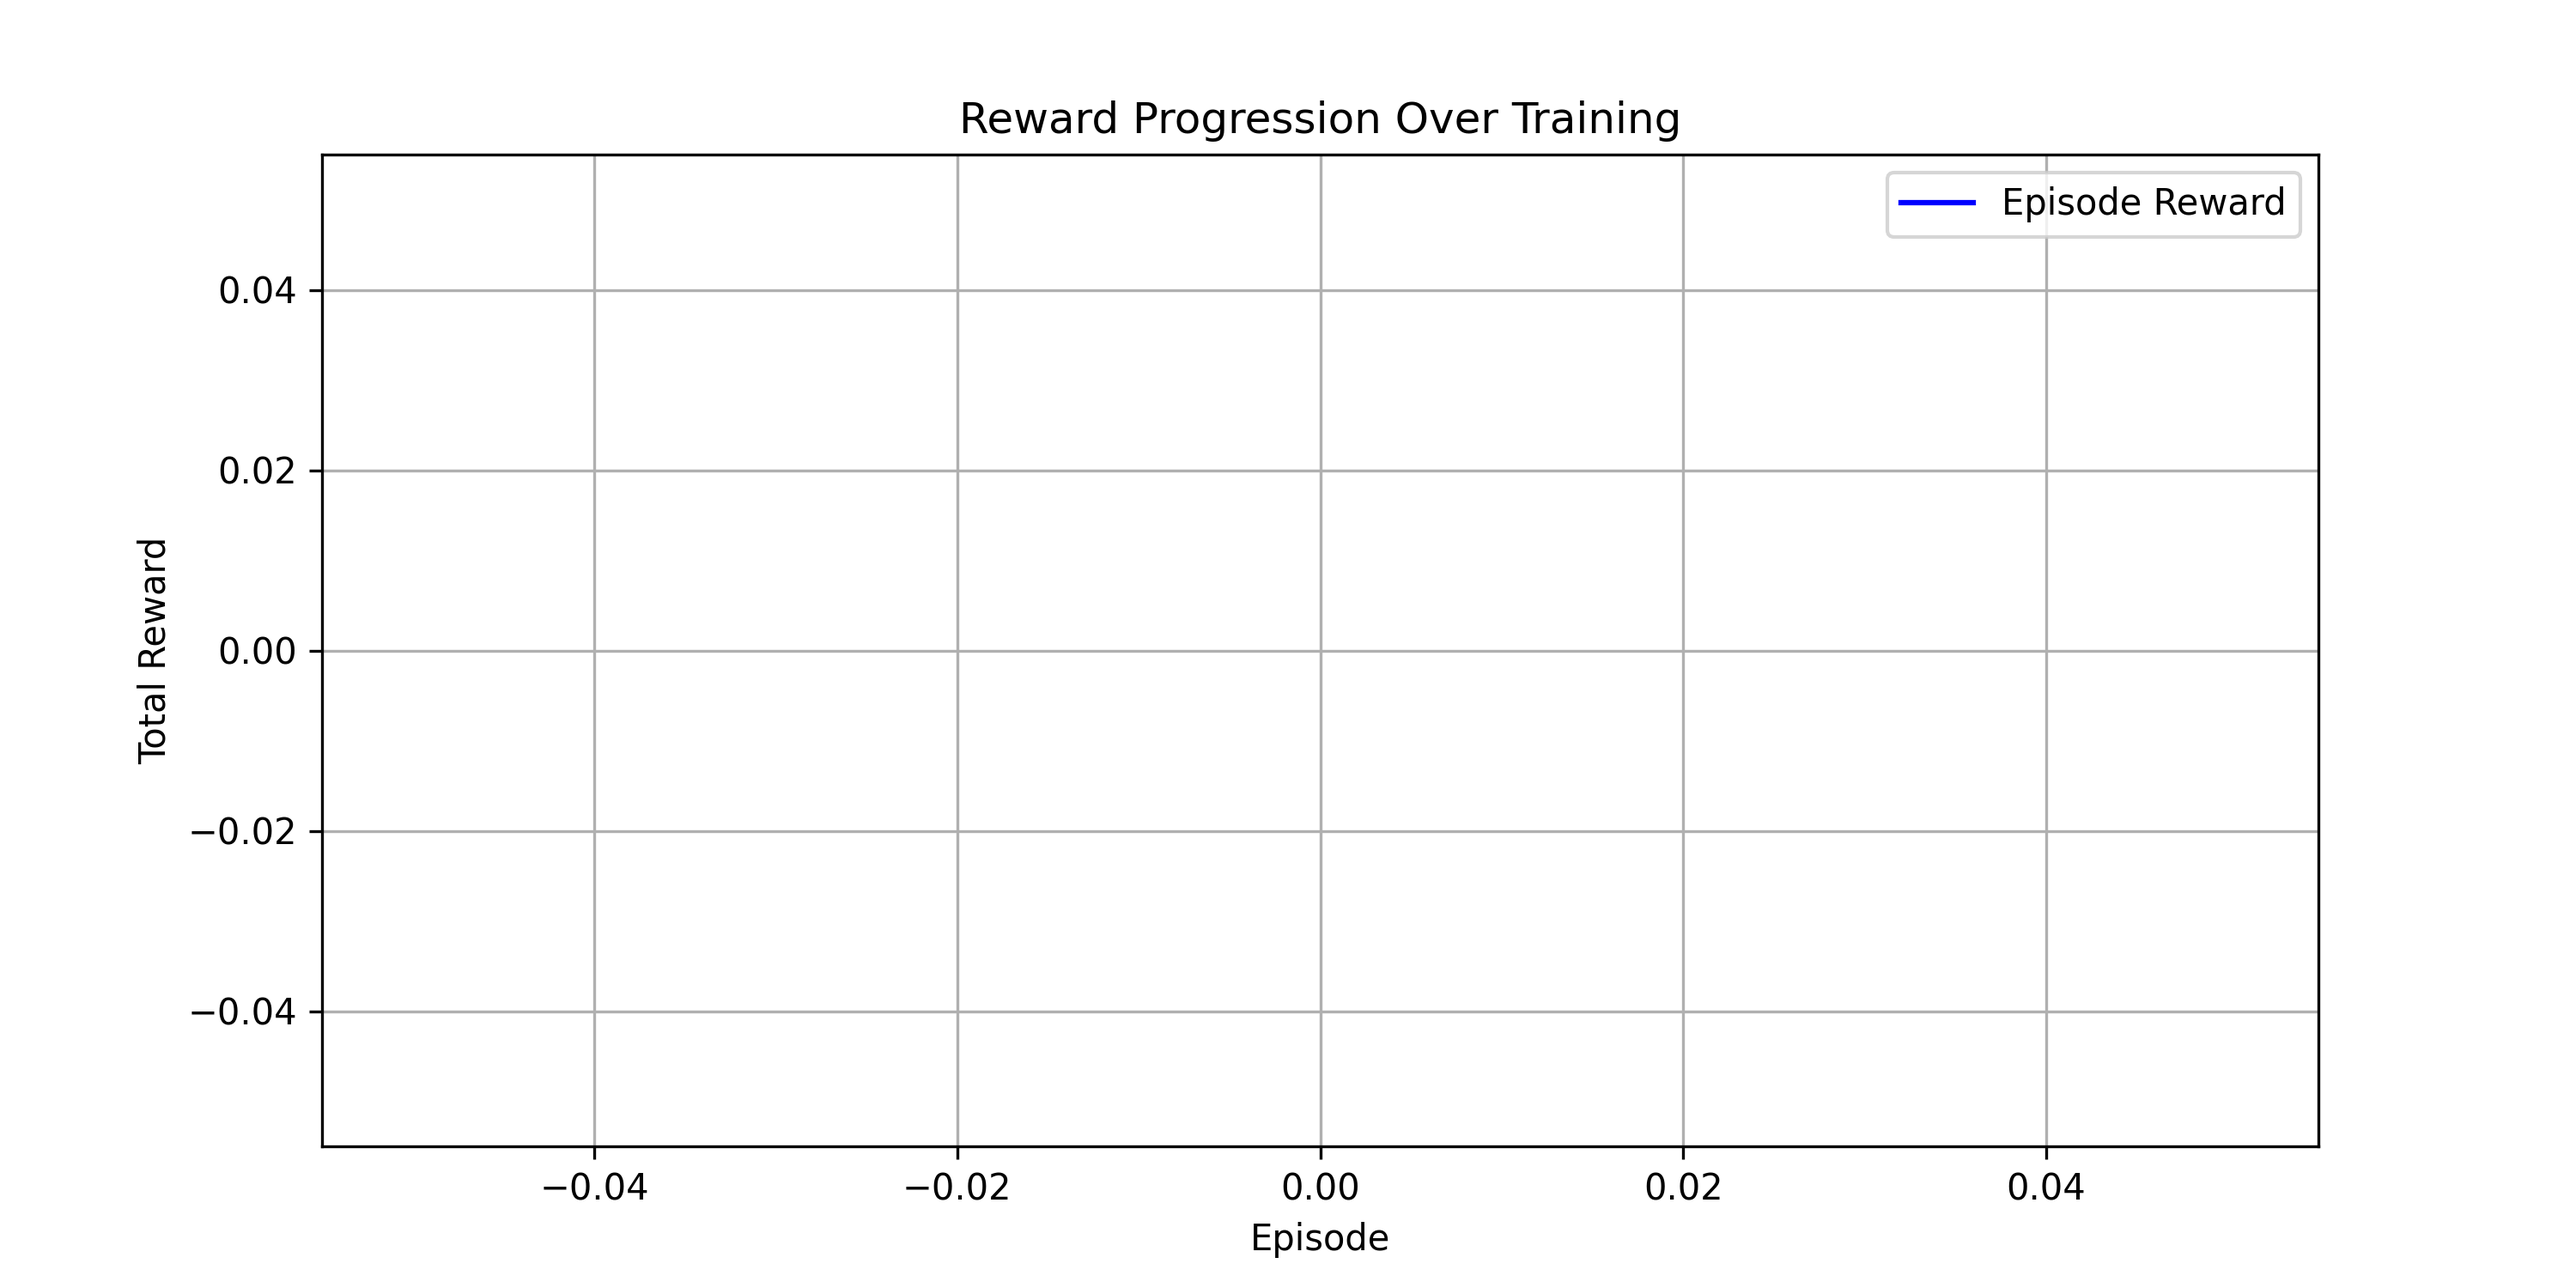
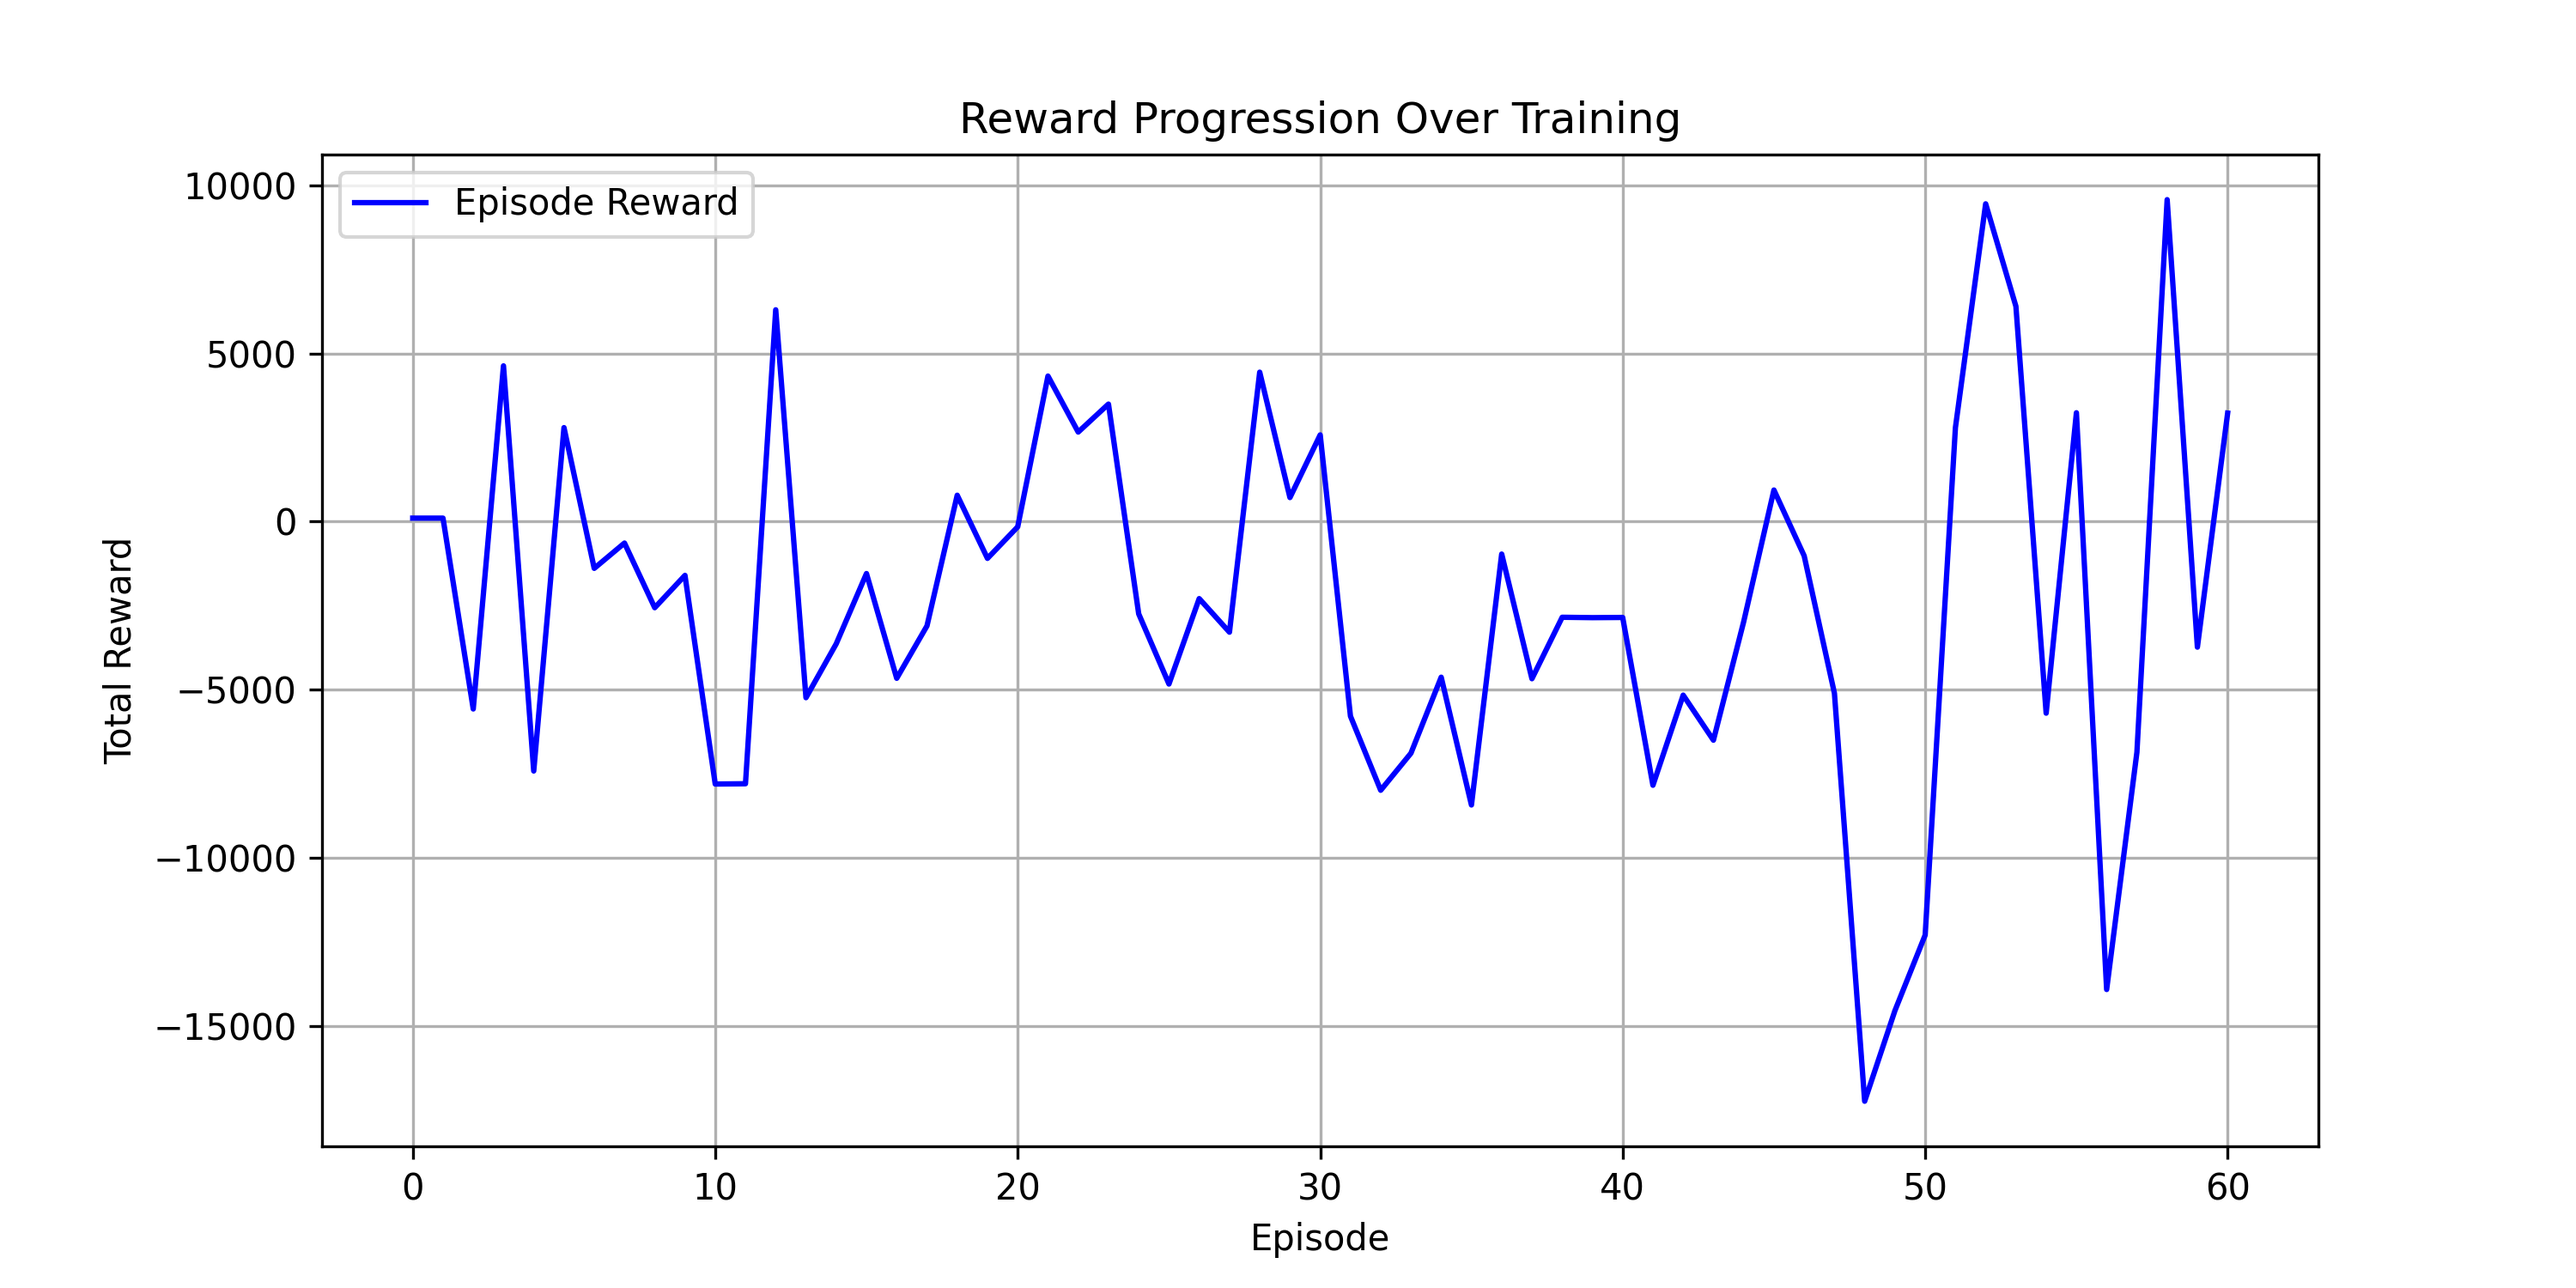
weights

diff --git a/meanq.py b/meanq.py
@@ -1,1 +1,56 @@
-meanq = [523.953, 390.449, 236.039, 163.202, 113.454, 100.813, 86.221, 65.698, 53.890, 47.561, 47.597]
+# import matplotlib as plt
+import matplotlib.pyplot as plt 
+import numpy as np
+reward = [100.86770226012172, 100.868, -5575.914645548616, 4630.44710351378, -7421.436763020219, 2792.647571528817, -1393.564, -640.5747190486701, -2564.102503491026, -1602.339, -7808.563186148895, -7800.225588276536, 6297.894719607774, -5240.71668895827, -3637.903, -1547.488952145644, -4663.777789566785, -3105.633, 782.0011874281523, -1096.6943980969436, -157.347, 4326.123567533084, 2660.3925708794695, 3493.258, -2748.0009410223056, -4834.324248517661, -2293.013020925636, -3291.779,
+            4441.86507646778, 712.1030402096517, 2576.984, -5788.871182506552, -7994.289927301427, -6891.581, -4630.886768539453, -8431.570989289014, -968.1875146498639, -4676.882, -2848.4301420063416, -2859.478711645183, -2853.954, -7845.344800232706, -5164.708236835864, -6505.027, -2981.1853952278925, 936.9697388423102, -1022.108, -5107.122265609277, -17243.989322594676, -14550.018469177954, -12300.377, 2791.069968791857, 9450.124598188859, 6400.5323273147305, -5700.98201113508, 3235.186,
+            -13920.286620412173, -6864.220270601203, 9573.9660367179, -3736.847, 3224.7073443704494]
+
+meanq = [755.965, 917.614, 783.258, 477.811, 442.281, 440.022, 446.133, 460.746, 468.599, 448.821, 446.392, 368.691, 368.832, 343.411, 321.541, 307.700, 317.487]
+
+meanq2 = [220.048, 912.534, 1005.201, 970.794, 848.333, 746.988, 738.895, 795.413, 820.254, 831.510, 750.946, 737.483, 741.147, 768.219, 794.175, 781.133, 775.574, 924.133, 951.194, 996.900, 974.589, 981.699, 930.616, 913.996, 831.955, 739.034, 705.053, 670.695, 689.278, 712.620, 674.930, 649.260, 687.700, 687.225, 699.392, 765.399, 867.028, 959.375, 966.659, 980.818, 993.678, 1012.047, 1004.440, 847.503, 687.122, 680.428, 677.982, 671.808, 634.522, 615.759, 622.820, 624.372, 607.852, 593.438, 555.667, 549.750, 572.587, 550.692, 566.773, 551.659]
+
+print(len(meanq2))
+
+plt.figure(figsize=(10, 5))
+plt.plot(reward, label="Episode Reward", color="b")
+plt.xlabel("Episode")
+plt.ylabel("Total Reward")
+plt.title("Reward Progression Over Training")
+plt.legend()
+plt.grid()
+
+# Save the reward progression figure
+graph_path = "reward_progression.png"
+plt.savefig(graph_path, dpi=300)
+plt.close()  # Close the figure to avoid overlap with the next one
+
+# Plotting the mean Q-value progression
+plt.figure(figsize=(10, 5))
+plt.plot(meanq, label="Episode Mean Q Value", color="b")
+plt.xlabel("Intervals (10000 steps performed)")
+plt.ylabel("Mean Q Value")
+plt.title("Mean Q Progression Over Training")
+plt.legend()
+plt.grid()
+
+# Save the mean Q-value progression figure
+graph_path = "mean_q_progression.png"
+plt.savefig(graph_path, dpi=300)
+plt.close()  # Close the figure after saving
+
+# Plotting the mean Q-value progression
+plt.figure(figsize=(10, 5))
+plt.plot(meanq2, label="Episode Mean Q Value", color="b")
+plt.xlabel("Intervals (10000 steps performed)")
+plt.ylabel("Mean Q Value")
+plt.title("Mean Q Progression Over Training")
+plt.legend()
+plt.grid()
+
+# Save the mean Q-value progression figure
+graph_path = "mean_q_progression_exp1.png"
+plt.savefig(graph_path, dpi=300)
+plt.close()  # Close the figure after saving
+
+# Optionally, show the plots (this will open the saved figures)
+plt.show()

diff --git a/TankGameEnv.py b/TankGameEnv.py
@@ -394,7 +394,7 @@ class TankEnv(Env):
     
     def get_all_info(self):
         # Instead of returning a tuple of different structures, create a flat numpy array
-        observation = np.zeros(12, dtype=np.float32)
+        observation = np.zeros(15, dtype=np.float32)
         
         # Player position (2 values)
         player_x, player_y = self.get_player_location()

diff --git a/TrainingBot.py b/TrainingBot.py
@@ -8,7 +8,7 @@ DEGREE_TOLERANCE = 2
 class TrainingBot(Tank):
     def __init__(self, game, x, y, color):
         super().__init__(x, y, color)
-        print("Creating training bot 2")
+        # print("Creating training bot 2")
         self.game = game
         self.move_angle = None
         self.action_probabilities = {
